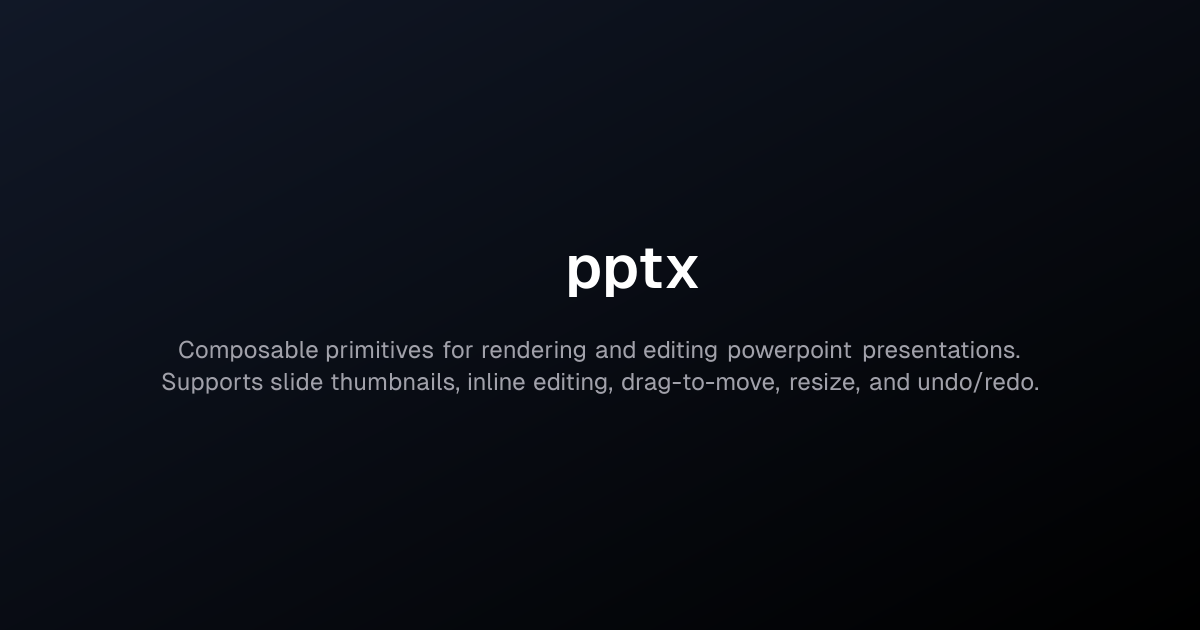
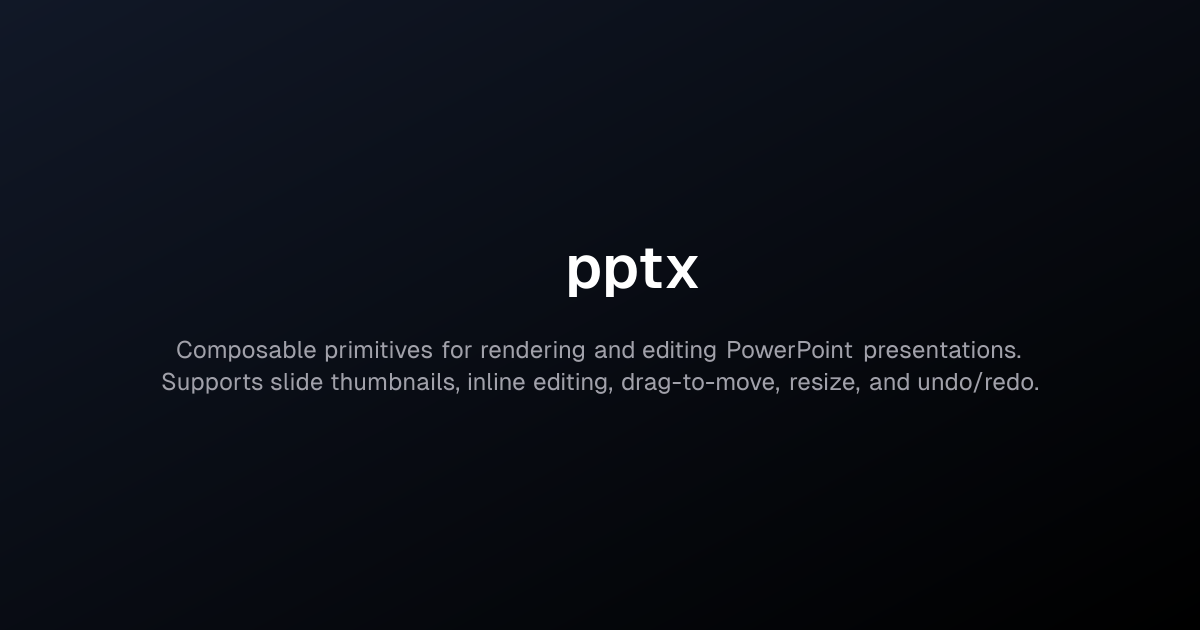
chore: resolve stuffs

Changed region(s): [[0.1233, 0.5429, 0.8633, 0.573]]

diff --git a/apps/docs/src/app/(lobby)/page.tsx b/apps/docs/src/app/(lobby)/page.tsx
@@ -8,13 +8,13 @@ export default function IndexPage() {
     <section className="container flex flex-col items-center justify-center gap-6 pt-6 pb-8 md:py-10">
       <div className="flex max-w-5xl flex-col items-center gap-4">
         <h1
-          className="animate-fade-up bg-linear-to-br from-foreground/80 to-muted-foreground bg-clip-text text-center text-4xl/tight leading-tight font-bold tracking-tighter text-balance text-transparent opacity-0 drop-shadow-xs md:text-5xl/tight"
+          className="animate-fade-up text-center text-4xl/tight leading-tight font-bold tracking-tighter text-balance opacity-0 md:text-5xl/tight"
           style={{ animationDelay: "0.20s", animationFillMode: "forwards" }}
         >
           {siteConfig.name}
         </h1>
         <p
-          className="max-w-2xl animate-fade-up text-center text-lg font-light text-balance text-muted-foreground opacity-0 md:text-xl"
+          className="animate-fade-up text-center text-lg font-light text-balance opacity-0 md:text-xl"
           style={{ animationDelay: "0.30s", animationFillMode: "forwards" }}
         >
           {siteConfig.description}

diff --git a/apps/docs/src/lib/site.ts b/apps/docs/src/lib/site.ts
@@ -3,7 +3,7 @@ export type SiteConfig = typeof siteConfig;
 export const siteConfig = {
   name: "pptx",
   description:
-    "Composable primitives for rendering and editing powerpoint presentations. Supports slide thumbnails, inline editing, drag-to-move, resize, and undo/redo.",
+    "Composable primitives for rendering and editing PowerPoint presentations. Supports slide thumbnails, inline editing, drag-to-move, resize, and undo/redo.",
   url: "https://diceui.pptx.com",
   ogImage: "https://diceui.pptx.com/opengraph-image.png",
   links: {

diff --git a/apps/docs/types/presentation.ts b/apps/docs/types/presentation.ts
@@ -4,7 +4,7 @@
 // Usage in MDX:
 //   <AutoTypeTable path="types/presentation.ts" name="RootOwnProps" />
 
-import type React from "react";
+import type * as React from "react";
 
 import type { Presentation as PresentationPrimitive } from "@diceui/pptx";
 

diff --git a/README.md b/README.md
@@ -1,6 +1,6 @@
 # pptx
 
-Composable primitives for rendering and editing powerpoint presentations. Supports slide thumbnails, inline editing, drag-to-move, resize, and undo/redo.
+Composable primitives for rendering and editing PowerPoint presentations. Supports slide thumbnails, inline editing, drag-to-move, resize, and undo/redo.
 
 `@diceui/pptx` gives you headless building blocks (`Root`, `Viewport`, `Slide`, `ThumbnailList`, `Selection`, ...) that you assemble and style yourself. Under the hood, `@diceui/pptx-parser` parses OOXML, renders slides to DOM, and provides a typed edit API with full undo/redo, all without a framework dependency.
 
@@ -156,7 +156,7 @@ pnpm dev          # starts apps/docs on http://localhost:3000
 pnpm build        # build all packages
 pnpm test         # run all tests
 pnpm typecheck    # TypeScript type check
-pnpm check        # lint + format (oxlint + oxfmt)
+pnpm check        # lint + typecheck + format (oxlint + tsc + oxfmt)
 ```
 
 ## Project structure
